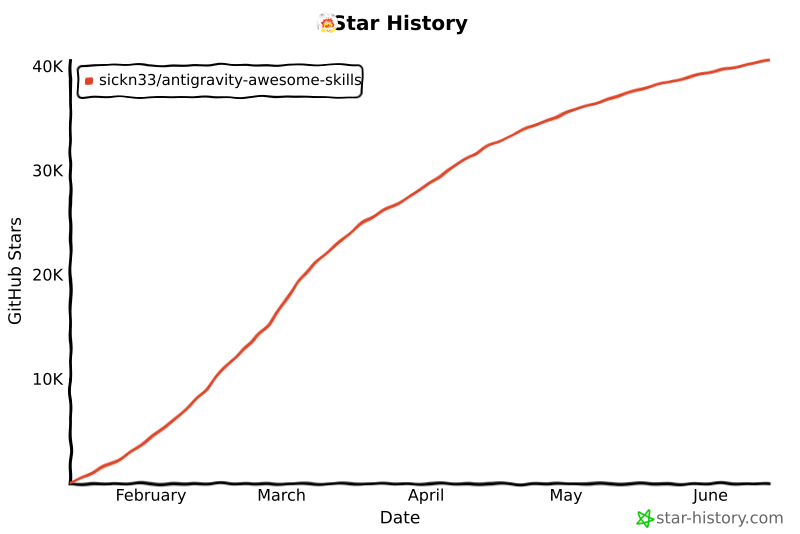
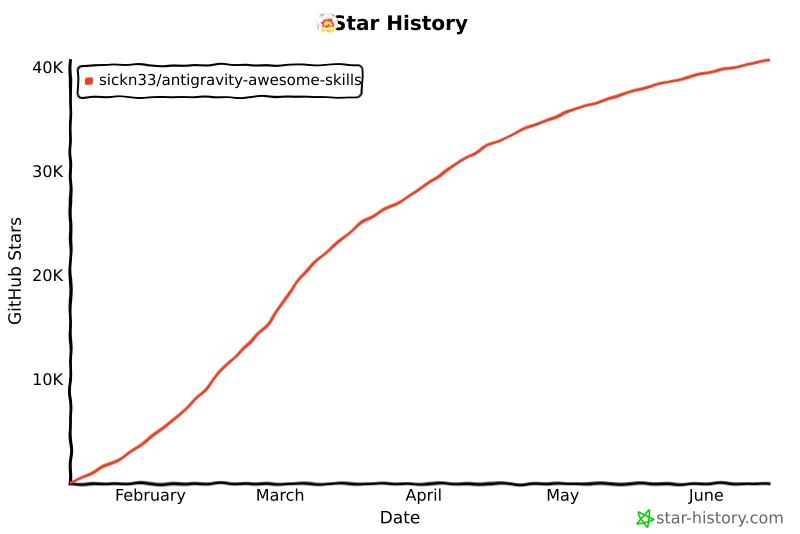
chore: update star history chart

diff --git a/README.md b/README.md
@@ -491,14 +491,14 @@ We officially thank the following contributors for their help in making this rep
 ## Star History
 
 <a href="https://www.star-history.com/#sickn33/antigravity-awesome-skills&type=date&legend=top-left">
- <img alt="Star History Chart" src="https://api.star-history.com/svg?repos=sickn33/antigravity-awesome-skills&type=date&legend=top-left&cache_bust=202606140946" />
+ <img alt="Star History Chart" src="https://api.star-history.com/svg?repos=sickn33/antigravity-awesome-skills&type=date&legend=top-left&cache_bust=202606151229" />
 </a>
 
 <a href="https://www.star-history.com/sickn33/antigravity-awesome-skills">
  <picture>
-   <source media="(prefers-color-scheme: dark)" srcset="https://api.star-history.com/chart?repos=sickn33/antigravity-awesome-skills&style=landscape1&theme=dark&cache_bust=202606140946" />
-   <source media="(prefers-color-scheme: light)" srcset="https://api.star-history.com/chart?repos=sickn33/antigravity-awesome-skills&style=landscape1&cache_bust=202606140946" />
-   <img alt="Star History Chart" src="https://api.star-history.com/chart?repos=sickn33/antigravity-awesome-skills&style=landscape1&cache_bust=202606140946" />
+   <source media="(prefers-color-scheme: dark)" srcset="https://api.star-history.com/chart?repos=sickn33/antigravity-awesome-skills&style=landscape1&theme=dark&cache_bust=202606151229" />
+   <source media="(prefers-color-scheme: light)" srcset="https://api.star-history.com/chart?repos=sickn33/antigravity-awesome-skills&style=landscape1&cache_bust=202606151229" />
+   <img alt="Star History Chart" src="https://api.star-history.com/chart?repos=sickn33/antigravity-awesome-skills&style=landscape1&cache_bust=202606151229" />
  </picture>
 </a>
 
